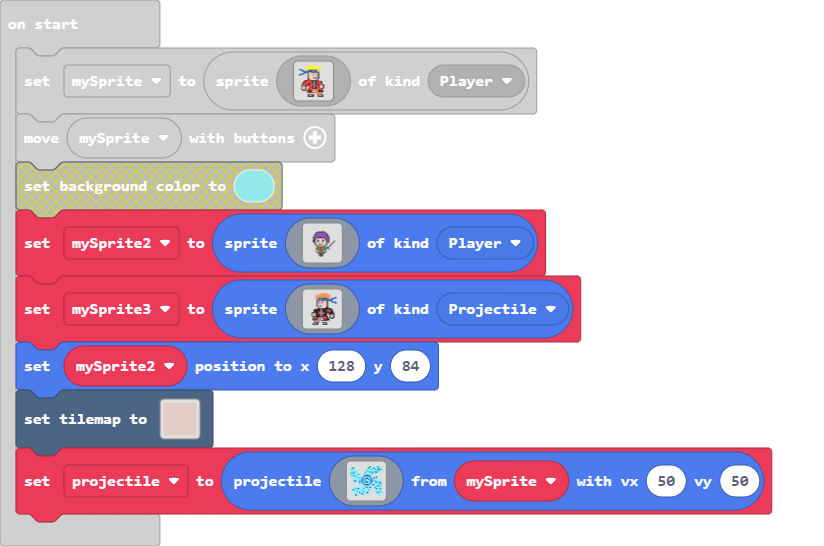
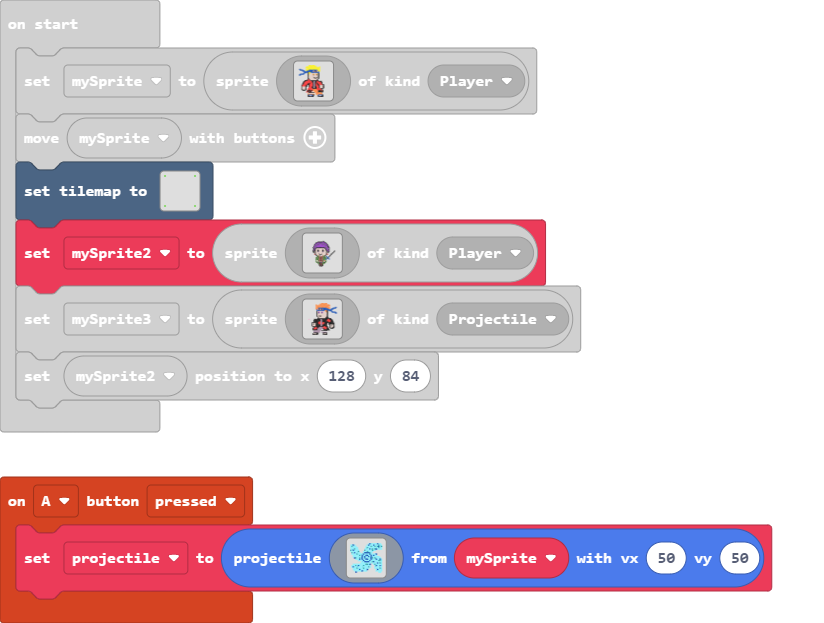
Update main.blocks, main.ts, tilemap.g.jres, tilemap.g.ts

diff --git a/main.ts b/main.ts
@@ -1,33 +1,37 @@
-let mySprite = sprites.create(assets.image`Naruto`, SpriteKind.Player)
+controller.A.onEvent(ControllerButtonEvent.Pressed, function () {
+    projectile = sprites.createProjectileFromSprite(img`
+        .........................
+        ..............9899999899.
+        9989.........989998999699
+        96999.......9999699696896
+        999999......9699999999699
+        999699.....99998969689999
+        6989999....699999699.....
+        9999996...99969999.......
+        .6989999..9888869........
+        .99996999989999899998....
+        ..9999969899889989899....
+        ..999999989899898999999..
+        ...869969898999986969999.
+        ....999898998899899989989
+        ......9999899998999999669
+        .........9988889968999999
+        ........99999999.99998969
+        ..99999999996698..9699999
+        .999698999699999...989989
+        .989999999999969...999999
+        ..9996999969999....999969
+        ..999998999998......98999
+        ...9999998999.......99999
+        ....8.................99.
+        .........................
+        `, mySprite, 50, 50)
+})
+let projectile: Sprite = null
+let mySprite: Sprite = null
+mySprite = sprites.create(assets.image`Naruto`, SpriteKind.Player)
 controller.moveSprite(mySprite)
 tiles.setTilemap(tilemap`level1`)
-let projectile = sprites.createProjectileFromSprite(img`
-    .........................
-    ..............9899999899.
-    9989.........989998999699
-    96999.......9999699696896
-    999999......9699999999699
-    999699.....99998969689999
-    6989999....699999699.....
-    9999996...99969999.......
-    .6989999..9888869........
-    .99996999989999899998....
-    ..9999969899889989899....
-    ..999999989899898999999..
-    ...869969898999986969999.
-    ....999898998899899989989
-    ......9999899998999999669
-    .........9988889968999999
-    ........99999999.99998969
-    ..99999999996698..9699999
-    .999698999699999...989989
-    .989999999999969...999999
-    ..9996999969999....999969
-    ..999998999998......98999
-    ...9999998999.......99999
-    ....8.................99.
-    .........................
-    `, mySprite, 50, 50)
 let mySprite2 = sprites.create(assets.image`Tanjiro`, SpriteKind.Player)
 let mySprite3 = sprites.create(assets.image`Pain`, SpriteKind.Projectile)
 mySprite2.setPosition(128, 84)

diff --git a/tilemap.g.ts b/tilemap.g.ts
@@ -6,7 +6,7 @@ namespace myTiles {
     helpers._registerFactory("tilemap", function(name: string) {
         switch(helpers.stringTrim(name)) {
             case "level1":
-            case "level1":return tiles.createTilemap(hex`1000100001010101010101010101010101010101010101010101010101010101010101010101010101010101010101010101010101010101010101010101010101010101010101010101010101010101010101010101010101010101010101010101010101010101010101010101010101010101010101010101010101010101010101010101010101010101010101010101010101010101010101010101010101010101010101010101010101010101010101010101010101010101010101010101010101010101010101010101010101010101010101010101010101010101010101010101010101010101010101010101010101010101010101010101010101010101`, img`
+            case "level1":return tiles.createTilemap(hex`1000100001000000000000000000000000000001000000000000000000000000000000000000000000000000000000000000000000000000000000000000000000000000000000000000000000000000000000000000000000000000000000000000000000000000000000000000000000000000000000000000000000000000000000000000000000000000000000000000000000000000000000000000000000000000000000000000000000000000000000000000000000000000000000000000000000000000000000000000000000000000000000000000000000000000000000000000000000000000000000000000000001000000000000000000000000000001`, img`
 . . . . . . . . . . . . . . . . 
 . . . . . . . . . . . . . . . . 
 . . . . . . . . . . . . . . . . 
@@ -23,7 +23,7 @@ namespace myTiles {
 . . . . . . . . . . . . . . . . 
 . . . . . . . . . . . . . . . . 
 . . . . . . . . . . . . . . . . 
-`, [myTiles.transparency16,sprites.castle.tilePath5], TileScale.Sixteen);
+`, [myTiles.transparency16,sprites.castle.tileGrass2], TileScale.Sixteen);
         }
         return null;
     })
